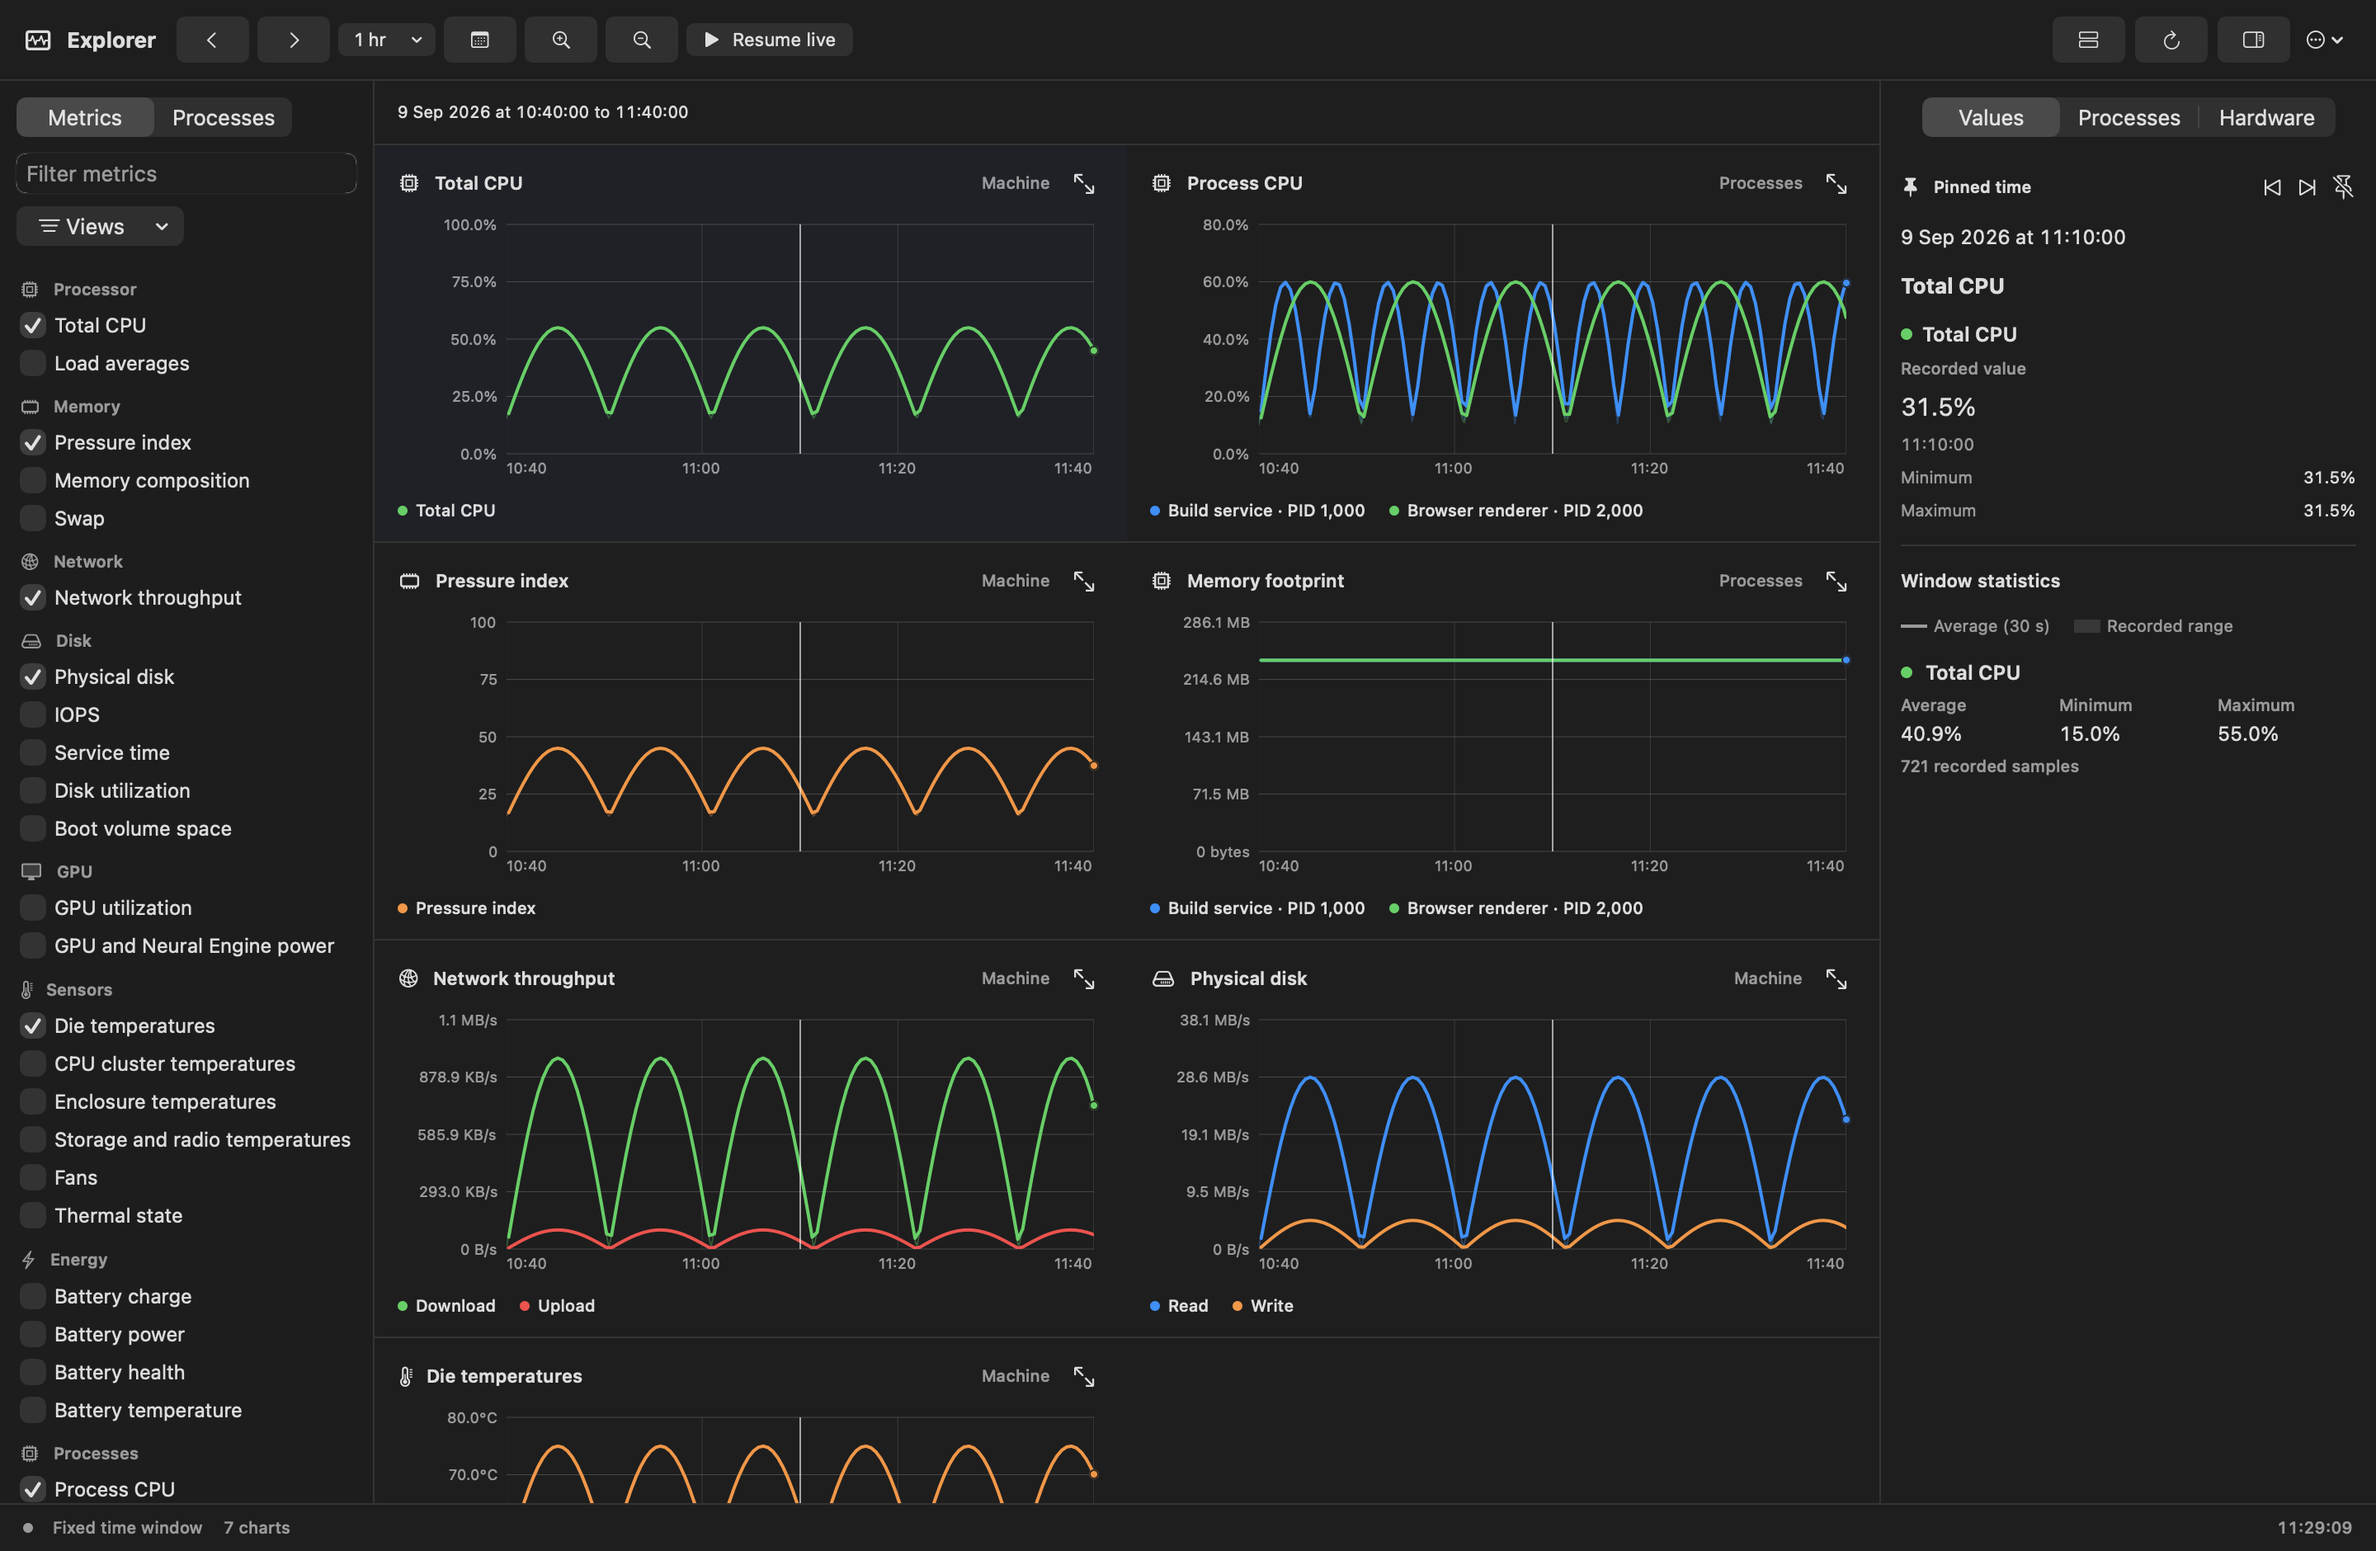
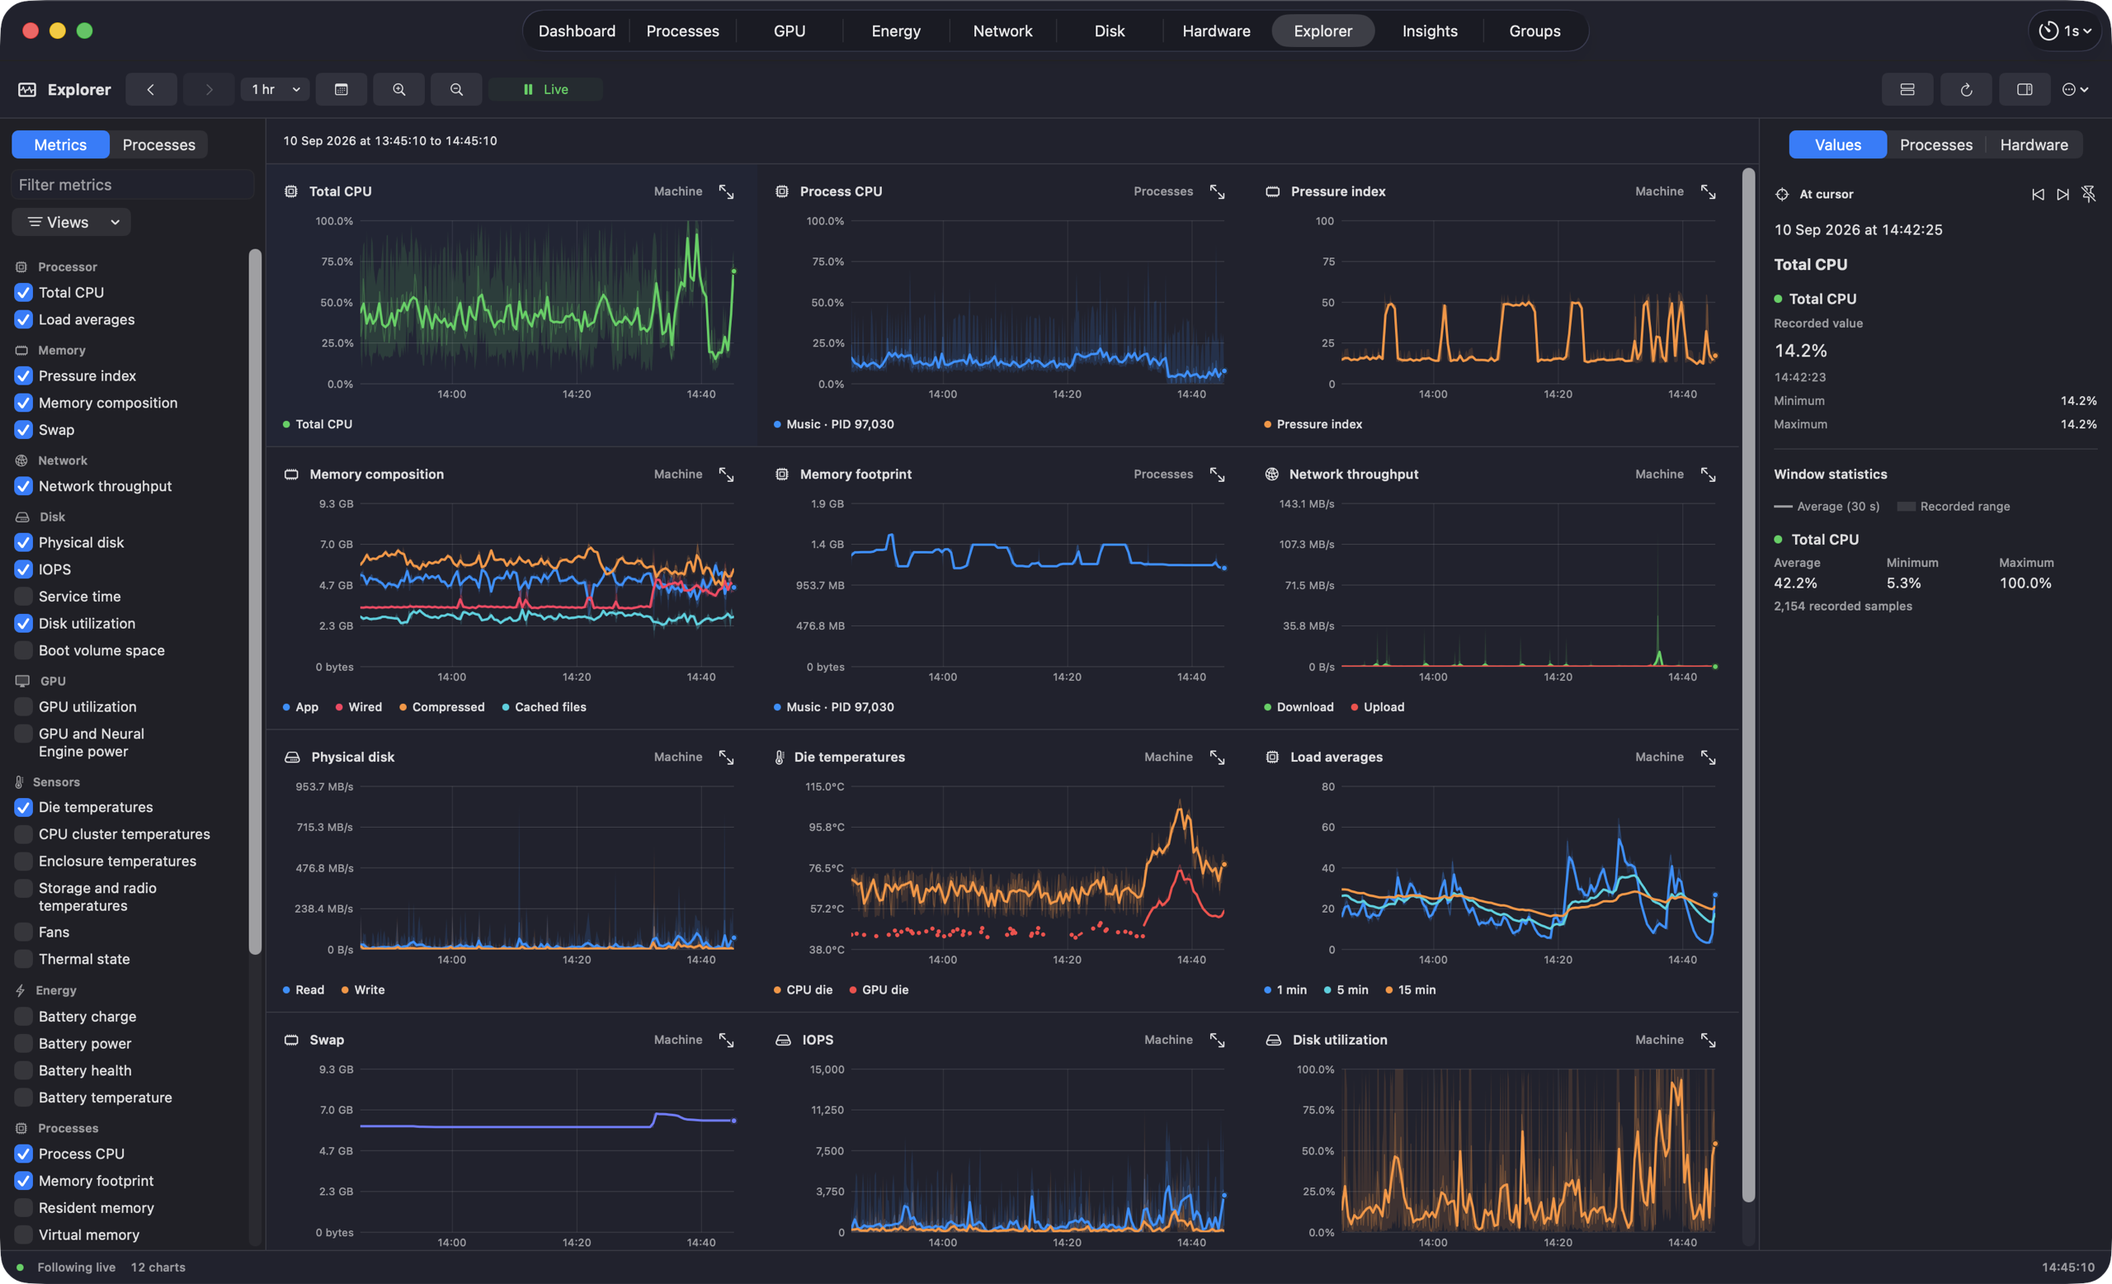
Refresh 2.0 README with live app screenshots
Lead with Explorer, describe adaptive alerts and chart improvements, clarify the development branch and install paths, and refresh the Explorer and Dashboard captures.

diff --git a/README.md b/README.md
@@ -1,6 +1,6 @@
 # Mac Performance Monitor
 
-[![CI](https://img.shields.io/github/actions/workflow/status/Zesty0wl/mac-performance-monitor/ci.yml?branch=main&label=CI&logo=githubactions&logoColor=white)](https://github.com/Zesty0wl/mac-performance-monitor/actions/workflows/ci.yml)
+[![2.0 CI](https://img.shields.io/github/actions/workflow/status/Zesty0wl/mac-performance-monitor/ci.yml?branch=2.0.0&label=2.0%20CI&logo=githubactions&logoColor=white)](https://github.com/Zesty0wl/mac-performance-monitor/actions/workflows/ci.yml?query=branch%3A2.0.0)
 [![Latest release](https://img.shields.io/github/v/release/Zesty0wl/mac-performance-monitor?logo=github&label=release)](https://github.com/Zesty0wl/mac-performance-monitor/releases/latest)
 [![Downloads](https://img.shields.io/github/downloads/Zesty0wl/mac-performance-monitor/MacPerformanceMonitor.pkg?logo=github&label=downloads)](https://github.com/Zesty0wl/mac-performance-monitor/releases)
 [![Homebrew cask](https://img.shields.io/homebrew/cask/v/mac-performance-monitor?logo=homebrew&logoColor=white&label=homebrew)](https://formulae.brew.sh/cask/mac-performance-monitor)
@@ -14,113 +14,154 @@
 [![Crowdin](https://img.shields.io/badge/Crowdin-translate-2E3340?logo=crowdin&logoColor=white)](https://crowdin.com/project/mac-performance-monitor)
 [![License](https://img.shields.io/github/license/Zesty0wl/mac-performance-monitor?label=license)](LICENSE)
 
-A native macOS **performance analyzer and logger**. It continuously records CPU, memory
-pressure, GPU, network, disk, battery, and per-process usage to a local database, then
-helps you make sense of it: trends, leaks, pressure events, and on-device diagnostics.
+A native macOS **performance monitor and recorder**. See what your Mac is doing
+now, then go back to the moment a slowdown or spike began. Compare CPU, memory,
+GPU, network, disk, battery, and sensor readings with the processes behind them.
 
-Run it however suits you. The menu bar read-out and the background recorder are separate
-switches, so it can be a live read-out near the clock, a quiet recorder with no menu bar
-item at all, or a plain window you open when you need it.
+Use it as a live menu bar readout, a quiet background recorder, or a window you
+open when needed. The menu bar and history recorder have separate switches.
 
-Free and open source. No telemetry. Every sample stays on your Mac.
+Free and open source. No usage telemetry. Recorded samples stay on your Mac.
 
-![Dashboard](docs/images/dashboard.png)
+> **2.0 development branch:** this README describes the upcoming 2.0 release.
+> Downloads and Homebrew install the latest published release. To try this
+> branch, [build 2.0 from source](#build-20-from-source).
 
-## Features
+[![Explorer showing linked machine and process charts with a value inspector](docs/images/explorer.png)](docs/images/explorer.png)
 
-- **Menu bar at a glance:** one compact, configurable item for live memory pressure,
-  CPU, GPU, network, disk, and battery readouts, with a shared detail panel.
-- **Dashboard:** a plain-language verdict, headline tiles, the pressure timeline
-  with selectable ranges, a memory breakdown, and a swap trend.
-- **Process explorer:** a live, sortable, filterable table of every process, with a
-  detail inspector for footprint, CPU, file descriptors, disk I/O, and Rosetta status
-  over time.
-- **Process groups:** group related apps and helpers into a stack and see its blended
-  footprint as a share of the device.
-- **History and logging:** configurable-resolution logging to a local SQLite store;
-  top consumers over any window you pick.
-- **Disk tab:** live throughput, IOPS, service latency, and utilization with
-  history; per-device hardware identity; per-volume capacity bars grouped by
-  APFS container with purgeable space; SMART health for the internal SSD; a
-  boot-volume free-space trend; and top processes by attributed disk I/O.
-- **GPU tab:** who is using the GPU on Apple silicon, per process, with no helper
-  (the AGX driver's per-context accounting), plus device utilization, clock-state
-  residency, GPU and Neural Engine power, memory, thermal limit and power cap, a
-  breakdown by workload category, and recognition of AI runtimes (Ollama, llama.cpp,
-  MLX, LM Studio, Core ML, Apple Intelligence) with the model they serve where the
-  command line says; an optional sustained-high-GPU alert. The GPU menu bar
-  dropdown lists the top GPU processes too.
-- **Hardware tab:** this Mac's inventory as a searchable, browsable tree with a
-  visual overview: a block diagram of the chip (CPU clusters, GPU cores, Neural
-  Engine, unified memory), capacity bars, the displays to scale, battery health,
-  and every bus and device `system_profiler` and the kernel report (USB,
-  Thunderbolt, Bluetooth, audio, cameras, storage, network, Wi-Fi via CoreWLAN,
-  Metal limits, instruction-set features, secure boot). Read on demand with a
-  Refresh button, never on the sampling tick; copy any item or save a report.
-- **Memory growth:** tracks continued process growth, filters plateaus and stale
-  readings, and separates quiet observations from actionable growth alerts.
-- **Deep-dive diagnostics:** explains what a process is and whether its behavior is
-  normal, using signed, updatable check packs.
-- **Insights and alerts:** evidence-based notifications for critical pressure,
-  swap growth and paging strain, process growth, and explicit memory budgets.
-  Worsening incidents can escalate; settled high swap stays quiet. See
-  [Adaptive alerts](docs/adaptive-alerts.md).
-- **Explorer:** investigate a chosen time with linked machine, process, and
-  sensor charts. Compare up to eight running or recorded processes, inspect
-  source values and timestamps, and export the visible data. Hardware inventory
-  is a current snapshot, clearly separate from recorded history.
+## New In 2.0
+
+### Explorer: Investigate A Moment
+
+Explorer replaces the Analytics start screen with a workspace for live and
+recorded data. Pick a time, add the signals you need, and compare up to eight
+processes, including ones that have exited.
+
+Hover to move a shared cursor across the charts. Click to pin a time. Hold
+**Command and scroll** to zoom around the pointer; ordinary scrolling still
+moves the page. Use a grid, a list, or an expanded chart for a closer look.
+
+The inspector shows source values, timestamps, known bounds, and stored machine
+rows. Export the visible data as CSV, or share process history in a trace file.
+Older data keeps its retained resolution; zooming does not invent detail.
+Hardware inventory is a current snapshot, separate from history.
+
+[Explorer guide](docs/explorer-design.md)
+
+### Alerts Based On Change
+
+High swap usage alone is not a reason to warn you. The new rules look for
+continued growth or paging strain. They can report further worsening without
+first waiting for usage to fall below an old fixed limit.
+
+Process-growth checks reject stale readings and growth that has settled.
+Modest findings stay as quiet observations, not a diagnosis of a memory leak.
+A separate fast-growth check can catch runaway use without waiting 20 minutes.
+
+Click the menu bar alert badge for active issues and their evidence. Snooze an
+ordinary alert for an hour, or open it in Explorer at the relevant time.
+Related memory alerts share a notice, and only critical notices request sound.
+
+[Adaptive alert rules and limits](docs/adaptive-alerts.md)
+
+### Clearer Charts And Details
+
+Dashboard and Explorer charts show a clear average over the translucent recorded
+range. Short bursts stay visible, missing readings stay missing, and historical
+shapes remain stable as new data arrives.
+
+Dashboard cards open larger detail views with values and explanations. The
+menu bar panels keep stable layouts as readings change. The Dock icon follows
+the window, with a setting to keep it visible.
+
+## Monitor Your Mac
+
+- **Processes:** sort and filter the process table, inspect memory and CPU
+  history, and check file descriptors, disk I/O, and Rosetta status.
+
+- **Groups:** collect related apps and helpers into a group and track their
+  combined footprint as a share of the Mac's memory.
+
+- **Energy:** view battery health, charge, power flow, temperatures, fans, and
+  the processes using the most energy.
+
+- **Network:** follow download and upload rates, inspect adapters, and enable
+  per-app traffic tracking to see which apps use the network.
+
+- **Disk:** chart throughput, IOPS, and service time. Inspect drive health,
+  volume space, and the processes doing the most I/O.
+
+- **Disk Map:** scan a disk or folder, explore its space as a treemap, and find
+  large or old files. Reveal items in Finder or open Quick Look.
+
+- **GPU:** see device and per-process activity, power, memory, and thermal
+  limits. Recognize AI runtimes such as Ollama, MLX, and LM Studio.
+
+- **Hardware:** browse a searchable inventory of the chip, memory, displays,
+  storage, and connected devices. Refresh on demand or save a report.
+
+- **History and diagnostics:** choose recording detail and retention, find top
+  consumers over time, and investigate processes with on-device diagnostics.
 
 ## Screenshots
 
-Process explorer, with a per-process detail inspector:
+### Dashboard
+
+The current overview: pressure, memory, CPU, network, disk, and thermal trends.
+
+[![Dashboard with metric cards, memory breakdown, and recorded activity charts](docs/images/dashboard.png)](docs/images/dashboard.png)
+
+### Processes
+
+A live process table with a detailed inspector for the selected process.
 
 ![Processes](docs/images/processes.png)
 
-Energy: battery health, an energy-flow view, and the top energy users:
+### Energy
+
+Battery health, power flow, and the top energy users.
 
 ![Energy](docs/images/energy.png)
 
-Network throughput and every adapter on the machine:
+### Network
+
+Traffic history and the network adapters on the Mac.
 
 ![Network](docs/images/network.png)
 
-Disk throughput, service latency, SMART health, free space, and top I/O processes:
+### Disk And Disk Map
+
+Drive activity, service time, health, and free space.
 
 ![Disk](docs/images/disk.png)
 
-Disk Map: scan the startup disk, a volume or any folder and see what is using
-the space as a treemap you can zoom into, coloured by kind, age or depth, with
-Largest and Oldest views, a bar that reconciles the scan against the volume's
-used space (purgeable, clones, folders macOS would not let it read), and Reveal
-in Finder and Quick Look on every item. Byte-exact against `du`, a full 3 M-file
-disk in about twenty seconds, and the last scan comes back instantly:
+Explore disk usage by size, kind, age, or folder depth.
 
 ![Disk Map](docs/images/disk-map.png)
 
-GPU: utilization, power, clock states, and who is using the GPU, with AI
-workloads picked out:
+### GPU
+
+Device activity and the processes using the GPU, with AI workloads identified.
 
 ![GPU](docs/images/gpu.png)
 
-Hardware: this Mac's inventory, searchable, with the chip drawn core by core:
+### Hardware
+
+The current hardware inventory, with a visual chip overview.
 
 ![Hardware](docs/images/hardware.png)
 
-Explorer: pin a time, compare processes, and inspect machine and sensor history.
-This preview uses synthetic data. See the [Explorer guide](docs/explorer-design.md)
-for the workflow and recording limits:
+### Insights
 
-![Explorer](docs/images/explorer.png)
-
-Insights: what changed, pressure events, and the heaviest consumers:
+Memory growth, pressure events, and the heaviest consumers.
 
 ![Insights](docs/images/insights.png)
 
 ## Install
 
-Download `MacPerformanceMonitor.pkg` from the [Releases](../../releases) page and
-double-click it. It's Developer ID signed and notarized by Apple, so it installs and
-launches without security warnings, and keeps itself up to date via Sparkle.
+For the latest published build, download `MacPerformanceMonitor.pkg` from
+[Releases](../../releases) and double-click it. Published packages are Developer
+ID signed and notarized by Apple. Sparkle handles app updates.
 
 ### Homebrew
 
@@ -130,28 +171,30 @@ brew install --cask mac-performance-monitor
 
 This installs the same signed, notarized pkg from the main
 [homebrew-cask](https://github.com/Homebrew/homebrew-cask) repository. Homebrew's
-bump bot picks up each new release within a few hours, and the app keeps itself
-current through Sparkle in between, so `brew upgrade` leaves it alone unless you
-pass `--greedy`.
+bot picks up new releases. The app also keeps itself current through Sparkle.
+To include it in `brew upgrade`, pass `--greedy`.
 
-### Build from source
+### Build 2.0 From Source
 
 ```sh
-git clone https://github.com/Zesty0wl/mac-performance-monitor.git
+git clone --branch 2.0.0 https://github.com/Zesty0wl/mac-performance-monitor.git
 cd mac-performance-monitor
 swift build
 swift test
 Scripts/run.sh
 ```
 
-Requires macOS 15 (Sequoia) or later and a Swift 6 toolchain (Xcode 16 or a Swift.org
-toolchain), on Apple silicon.
+You need Apple silicon, macOS 15 (Sequoia) or later, and a Swift 6 toolchain
+from Xcode 16 or Swift.org.
 
 ## Privacy
 
-No telemetry, no analytics, no phone-home. Every sample is written to a local SQLite
-database and never leaves your Mac. Being open source, anyone can audit exactly what
-it does.
+No usage telemetry or analytics. Recorded performance data and alert evidence
+stay on your Mac. Exports leave it only when you choose to share them.
+
+Update checks, signed content downloads, and network tools make network requests.
+They do not upload your recorded performance history. The source is open for
+review so you can check what the app does.
 
 ## Contributing
 
@@ -159,12 +202,12 @@ Contributions are welcome. See [CONTRIBUTING.md](CONTRIBUTING.md) and the
 [Code of Conduct](CODE_OF_CONDUCT.md). Security reports go through
 [SECURITY.md](SECURITY.md).
 
-Translations are community-contributed: the app ships in English, Simplified
-Chinese, and German and French that were generated by Claude Fable 5.1 (an AI
-model) and are awaiting review by native speakers. Translate or review in your
-browser on
+The app ships in English, Simplified Chinese, German, and French. German and
+French began as AI translations and await review by native speakers.
+Translate or review in your browser on
 [Crowdin](https://crowdin.com/project/mac-performance-monitor), or edit one file and open a
-pull request. See [TRANSLATING.md](TRANSLATING.md).
+pull request. See [TRANSLATING.md](TRANSLATING.md) for the translation history
+and review process.
 
 ## License
 
